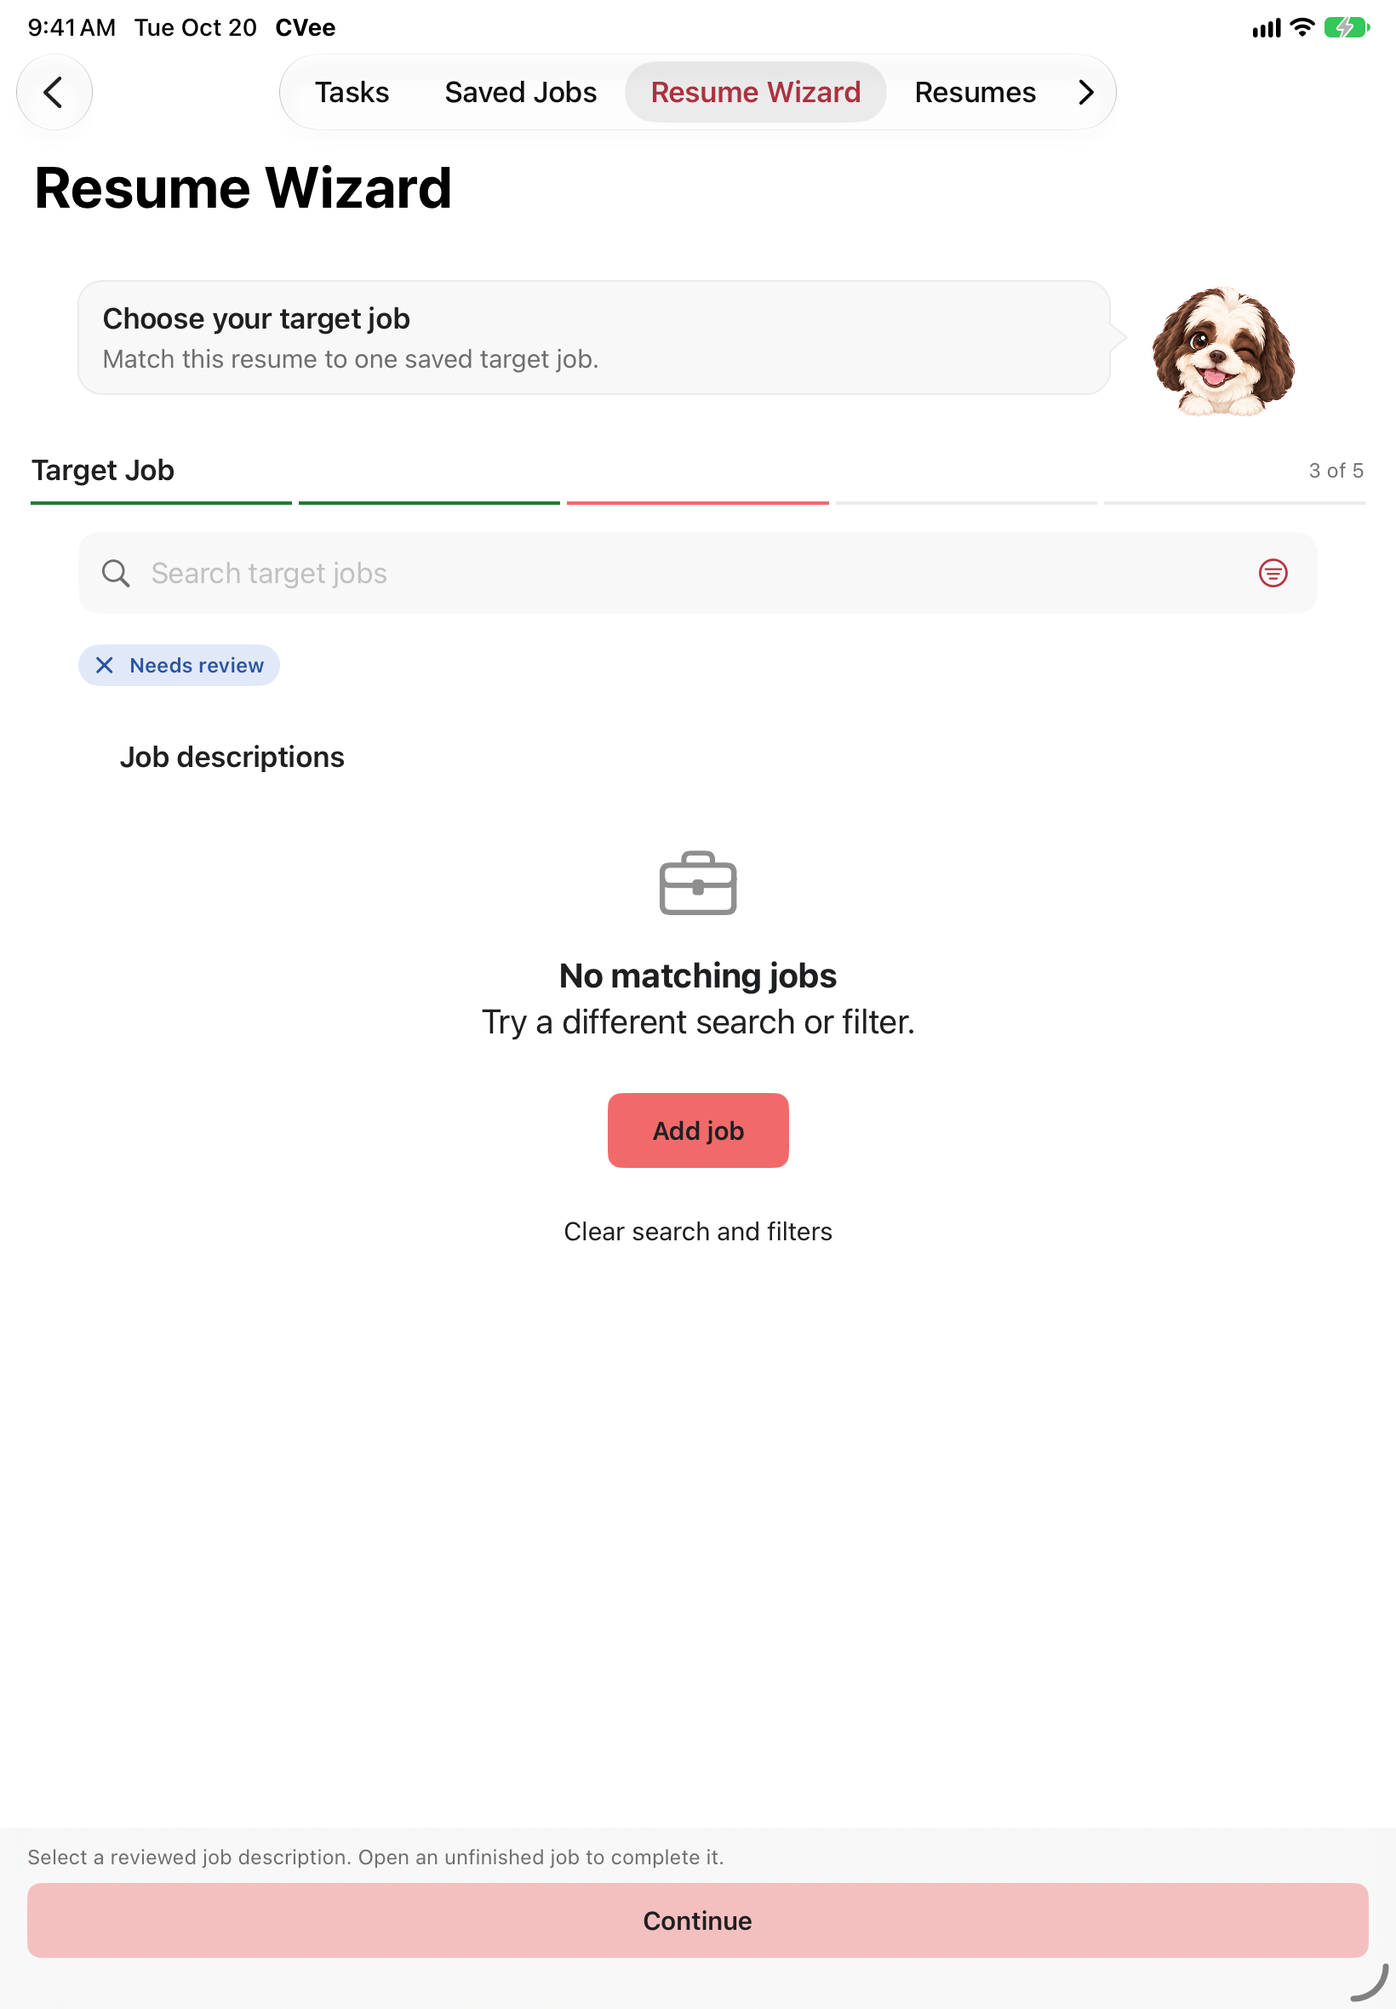
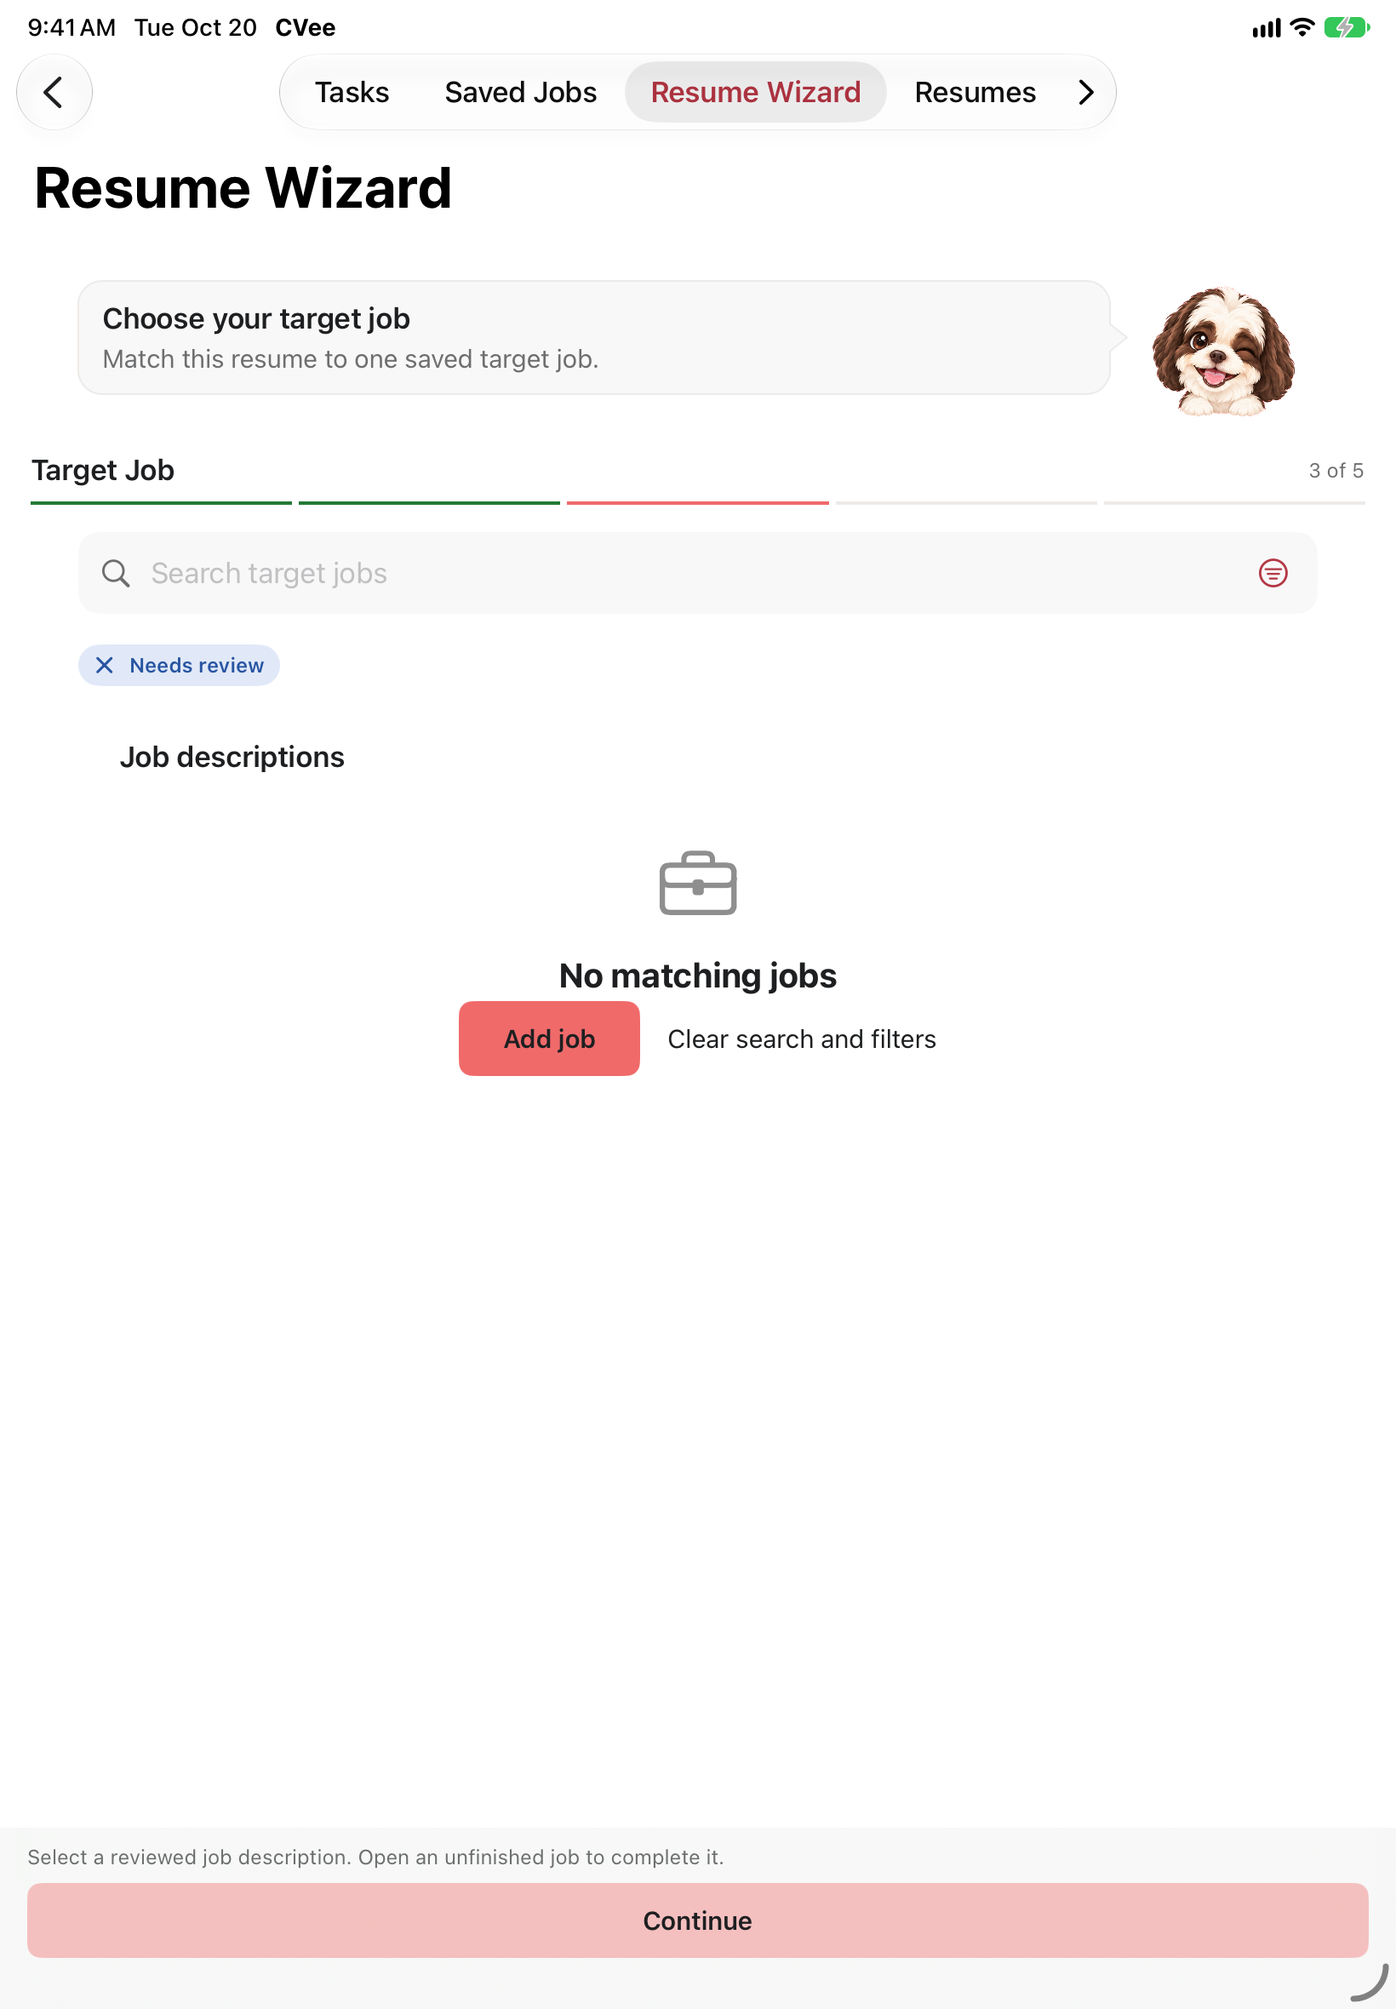
Keep Clear search and filters above the bottom bar when no job matches
- Lay out the Target Job empty state's Add job and Clear search and filters side by side when they fit (iPad), stacked otherwise, from one @ViewBuilder helper.
- Drop "Try a different search or filter." from the no-match state, so on iPhone 17 the stacked buttons stay above the bottom bar; the no-jobs state keeps its description only while the mascot is hidden.
- testWizardNoMatchingJobsOffersAddJob checks both buttons sit above the bottom bar without scrolling and that Add job comes first.
- Comment the popup backdrop's intentionally empty tap closure (SonarCloud S1186).
- Reword README, DESIGN and CHANGELOG; recapture iphone-05 and ipad-05.

Changed region(s): [[0.311, 0.4949, 0.653, 0.6186], [0.4043, 0.5877, 0.4354, 0.6186]]

diff --git a/CVee-resumebuilder/ContentView.swift b/CVee-resumebuilder/ContentView.swift
@@ -2853,20 +2853,16 @@ struct NewResumeView: View {
                     ContentUnavailableView {
                         Label(jobs.isEmpty ? "No saved jobs" : "No matching jobs", systemImage: "briefcase")
                     } description: {
-                        // With no saved jobs the bubble above already says what to do.
-                        if !(jobs.isEmpty && showsMascot) {
-                            Text(jobs.isEmpty ? "Add a job description to continue." : "Try a different search or filter.")
-                        }
+                        // With no saved jobs the bubble above already says what to do, and with no matches
+                        // Clear search and filters does; leaving the line out keeps that button above the
+                        // bottom bar on iPhone.
+                        if jobs.isEmpty && !showsMascot { Text("Add a job description to continue.") }
                     }
                     actions: {
-                        // Styled buttons take only their own taps inside the form row. Add job is coral, as on Saved Jobs.
-                        Button("Add job") { jobCountBeforeAdd = jobs.count; showingAddJob = true }
-                            .buttonStyle(CoralButtonStyle())
-                            .accessibilityIdentifier("wizard.jobs.empty-add-job")
-                        if !jobs.isEmpty {
-                            Button("Clear search and filters") { jobSearch = ""; jobCompany = "All companies"; jobStatus = "All statuses" }
-                                .buttonStyle(.borderless)
-                                .accessibilityIdentifier("wizard.jobs.clear-filters")
+                        // Side by side when they fit, so the way out of a search stays above the bottom bar.
+                        ViewThatFits(in: .horizontal) {
+                            HStack(spacing: 16) { jobEmptyActions }
+                            VStack(spacing: 12) { jobEmptyActions }
                         }
                     }
                 }
@@ -2896,6 +2892,20 @@ struct NewResumeView: View {
                 }
             }
         }.formStyle(.grouped).modifier(WorkspaceSurface())
+    }
+
+    /// Add job, then Clear search and filters while a search or filter hides every job. Styled buttons
+    /// take only their own taps inside the form row; Add job is coral, as on Saved Jobs.
+    @ViewBuilder
+    private var jobEmptyActions: some View {
+        Button("Add job") { jobCountBeforeAdd = jobs.count; showingAddJob = true }
+            .buttonStyle(CoralButtonStyle())
+            .accessibilityIdentifier("wizard.jobs.empty-add-job")
+        if !jobs.isEmpty {
+            Button("Clear search and filters") { jobSearch = ""; jobCompany = "All companies"; jobStatus = "All statuses" }
+                .buttonStyle(.borderless)
+                .accessibilityIdentifier("wizard.jobs.clear-filters")
+        }
     }
 
     private var summaryPage: some View {

diff --git a/CVee-resumebuilderUITests/ResumeWizardUITests.swift b/CVee-resumebuilderUITests/ResumeWizardUITests.swift
@@ -1110,7 +1110,11 @@ final class ResumeWizardUITests: XCTestCase {
         let clear = app.buttons["wizard.jobs.clear-filters"]
         XCTAssertTrue(addJob.exists)
         XCTAssertTrue(clear.exists)
-        XCTAssertLessThan(addJob.frame.midY, clear.frame.midY, "Add job sits above Clear search and filters")
+        // Both sit fully above the bottom bar without scrolling, Add job first.
+        let bar = app.descendants(matching: .any)["wizard.bottom-bar"]
+        XCTAssertLessThanOrEqual(addJob.frame.maxY, bar.frame.minY)
+        XCTAssertLessThanOrEqual(clear.frame.maxY, bar.frame.minY, "Clear search and filters stays above the bottom bar")
+        XCTAssertTrue(addJob.frame.maxX <= clear.frame.minX || addJob.frame.maxY <= clear.frame.minY, "Add job comes first")
         XCTAssertEqual(app.buttons.matching(NSPredicate(format: "label CONTAINS 'Add job'")).count, 1, "The trailing Add job row hides")
         capture(app, "wizard-no-matching-jobs")
         addJob.tap()

diff --git a/CVee-resumebuilder/Mascot.swift b/CVee-resumebuilder/Mascot.swift
@@ -332,7 +332,9 @@ struct MascotErrorPopup: View {
             Color.black.opacity(0.35)
                 .ignoresSafeArea()
                 .contentShape(Rectangle())
-                .onTapGesture { }
+                .onTapGesture {
+                    // Swallows taps, so the backdrop never dismisses the popup; only OK does.
+                }
                 .accessibilityHidden(true)
             VStack(spacing: 12) {
                 MascotView(mood: .curious, size: MascotMetrics.prominentSize)

diff --git a/README.md b/README.md
@@ -8,7 +8,7 @@ The five tabs are:
 
 - Tasks — add, edit, delete, search, and filter work experiences by company. Quick capture starts as a coral "What is your task today" card; tapping it opens a field for the task, and "Record task" then opens a sheet to confirm the task details, role, and company before saving. Recording folds the card again. Unfinished capture text is kept as a draft across launches, and a restored draft opens the card. The dog mascot leans on the card with a speech bubble beside it (at accessibility text sizes both sit above the card): it greets you with first-use guidance while the library is empty, cheers for six seconds after a task is recorded with quick capture, and otherwise shows how many tasks are ready to reuse. Editable progress widgets sit below quick capture: Tasks by company (a donut chart of the top four companies plus Other) and Used in resumes (the share of tasks linked to a saved resume) are shown by default, and Resumes saved, Jobs ready, and Last 30 days can be added; Edit adds, removes, and reorders them. The task list is grouped by company under a "Search tasks" field that matches role, company, and task text. A filter menu in the field limits the list to one company; the active filter shows as a chip below the field, and tapping the chip removes it. Tasks can also be added manually or imported from a document. Each entry stores a role, company, dates, and task/achievement lines; an existing task's dates cannot be changed. "Improve with AI" (while recording) and "Enhance with AI" (when adding manually or editing) rewrite a task into at most two concise sentences with the selected AI provider, and the suggestion is reviewed before it replaces the original.
 - Saved Jobs — save target jobs by pasting text or a link, importing one document (PDF, DOCX, or TXT) or up to 10 screenshots, or sharing from another app through the "Save to CVee" share extension. Document and screenshot text is extracted on the device (PDF, DOCX, and TXT text, with Vision OCR for screenshots and PDF pages without a text layer); no AI provider is involved. Title, company, and source URL are optional, but a job needs a description, a valid http(s) source URL, or an attachment. Each job row shows its title, company, status (Needs description, Needs review, or Ready for resume), and the date it was saved, and ends in a chevron; tapping a row opens job detail. A resume can use only a job that is Ready for resume. Imported and shared jobs are listed under Captured jobs. Above the list, the dog mascot and a speech bubble suggest saving a first job, then say how many saved jobs are ready for a resume; they are hidden while searching. A document or screenshot import is saved as needing review unless "Mark description reviewed" is tapped in the Add job sheet first, and a shared job always arrives needing review; "Mark reviewed" in job detail, or saving an edit, clears that once the job has a description. In job detail, "Fetch description" loads a proposed description from the job's source URL, which is stored only after Save changes, and "Extract description locally" reads attached files. Jobs can be searched, edited, and deleted with confirmation; job detail lists linked saved resumes, and "View tasks" opens the Tasks tab. The Add job sheet keeps an unfinished draft and warns about a possible duplicate (same normalized source URL or description).
-- Resume Wizard — five steps: Profile, Experience, Target Job, Review, and Resume. Start fresh with profile information (prefilled from Profile and saved back to it) or use an uploaded text-based PDF or a saved resume as a baseline; select work entries with the checkboxes on the left of each row, or all shown entries with the Work Library header's checkbox (search and a company filter sit below the step header), adding or importing tasks if needed; choose a saved job that is Ready for resume (search plus Company and Status filters) (tapping a job that is not ready opens its detail sheet to fix it); review the inputs and where the AI processing happens; generate; then preview the PDF, edit the text in Formatted or LaTeX mode, check the job match, and save. Replacing an unsaved draft and "Discard draft" (on the Resume step only) ask for confirmation. Back is the chevron at the top left from step 2 on, with the "Resume Wizard" title beside it in the navigation bar on iPhone (at the leading edge on Profile; iPad keeps the large title). Above the progress bar, the dog mascot and a speech bubble carry each step's guidance, in portrait at standard text sizes and not while typing; with an empty work library the bubble says "No tasks added yet", and with no saved jobs "No jobs saved yet", and the empty state below keeps only its title and button. When a job search or filter matches nothing, Target Job offers "Add job" above "Clear search and filters". A failed baseline upload, generation, or save shows as a popup with the dog, a title, the message, and OK; the draft is kept. The draft survives Back and tab navigation but not an app relaunch.
+- Resume Wizard — five steps: Profile, Experience, Target Job, Review, and Resume. Start fresh with profile information (prefilled from Profile and saved back to it) or use an uploaded text-based PDF or a saved resume as a baseline; select work entries with the checkboxes on the left of each row, or all shown entries with the Work Library header's checkbox (search and a company filter sit below the step header), adding or importing tasks if needed; choose a saved job that is Ready for resume (search plus Company and Status filters) (tapping a job that is not ready opens its detail sheet to fix it); review the inputs and where the AI processing happens; generate; then preview the PDF, edit the text in Formatted or LaTeX mode, check the job match, and save. Replacing an unsaved draft and "Discard draft" (on the Resume step only) ask for confirmation. Back is the chevron at the top left from step 2 on, with the "Resume Wizard" title beside it in the navigation bar on iPhone (at the leading edge on Profile; iPad keeps the large title). Above the progress bar, the dog mascot and a speech bubble carry each step's guidance, in portrait at standard text sizes and not while typing; with an empty work library the bubble says "No tasks added yet", and with no saved jobs "No jobs saved yet", and the empty state below keeps only its title and button. When a job search or filter matches nothing, Target Job offers "Add job" beside "Clear search and filters" (stacked when they don't fit). A failed baseline upload, generation, or save shows as a popup with the dog, a title, the message, and OK; the draft is kept. The draft survives Back and tab navigation but not an app relaunch.
 - Resumes — browse saved resumes (most recently updated first), open, preview, delete with confirmation, and export PDF or RTF through the share sheet. Saved resumes open in a structured section editor with Content and Preview modes: sections can be added (Summary, Experience, Projects, Skills, Education, Certifications, Custom), hidden, reordered, or deleted; the contact header cannot be hidden or deleted; there is a one- or two-page target, undo and redo, and autosave. "Import LaTeX text" turns pasted LaTeX into a new resume. Resumes saved only as RTF open as "Legacy resume" with "Create editable copy", and a resume whose structured data cannot be read shows a read-only preview. "Check job match" opens the resume report. An empty Resumes list offers "Create resume", which opens the wizard.
 - Profile — edit name, email, phone, location, LinkedIn and GitHub links, education, skills, and certifications; choose the AI provider, model, and API keys under Advanced settings → AI Provider; read terms; contact support; see the app version; and permanently clear local data after typing `CLEAR`. Clear all data deletes tasks, jobs, resumes, profile fields, job captures and attachments, the job and task capture drafts, the last-used task company, and the AI provider choice, model choices, and API keys. It does not reset the progress-widget layout.
 

diff --git a/CHANGELOG.md b/CHANGELOG.md
@@ -10,7 +10,7 @@ Captures: [design-audit/2026-10-19-wizard-round-three/](design-audit/2026-10-19-
 
 - On iPhone the "Resume Wizard" title moves from its own large-title row into the navigation bar beside the Back chevron (at the leading edge on Profile). iPad keeps the large title, because its bar shares a row with the tab bar.
 - With an empty work library the mascot's bubble says "No tasks added yet", and with no saved jobs "No jobs saved yet"; the empty state below keeps only its title and a coral Add experience or Add job.
-- When a job search or filter matches nothing, Target Job offers a coral Add job above "Clear search and filters", and the trailing Add job row hides while an empty state shows.
+- When a job search or filter matches nothing, Target Job offers a coral Add job beside "Clear search and filters" (above it when they don't fit side by side), with no description line so both stay above the bottom bar, and the trailing Add job row hides while an empty state shows.
 - Wizard errors (a baseline that can't be used, generation, and saving) show in a popup with the mascot, a title for the step, the message, and OK, instead of inline red text. The save failure now reads "Your draft is kept." followed by the error.
 - The resume report opens with the mascot and a bubble for its state, and shows the resume match: the share of confirmed job phrases found in the resume, as a "Resume match" row in the top card and a percentage with a progress bar above the coverage summary. It is not an ATS score.
 - When Apple Intelligence is unavailable, the report's "Suggest" and "Find related evidence" buttons use the remote provider selected in Profile (OpenAI, Gemini, or Claude with a saved key) and name it, with a caption saying what is sent; with no usable provider they offer "Choose an AI provider". Responses wrapped in code fences or text now parse.

diff --git a/DESIGN.md b/DESIGN.md
@@ -184,7 +184,7 @@ Saved Jobs rows show the title, a company capsule, a status (green when ready fo
 
 ### Empty States, Confirmation, and Failures
 - Empty libraries offer their next action: Saved Jobs offers Add job, Resumes offers Create resume (which opens the wizard), and the wizard's experience and job steps offer Add experience and Add job. The Tasks empty state has no button; quick capture sits above it.
-- Searches with no results offer a way back: Clear search, or Clear search and filters on Tasks and Saved Jobs. The wizard's Target Job step offers a coral Add job above Clear search and filters (its empty Experience and Target Job steps use the same coral Add experience and Add job as Saved Jobs); while either job empty state shows, the trailing Add job row hides, so only one Add job is on screen.
+- Searches with no results offer a way back: Clear search, or Clear search and filters on Tasks and Saved Jobs. The wizard's Target Job step offers a coral Add job and then Clear search and filters, side by side when they fit and stacked otherwise, with no description line so both stay above the bottom bar (its empty Experience and Target Job steps use the same coral Add experience and Add job as Saved Jobs); while either job empty state shows, the trailing Add job row hides, so only one Add job is on screen.
 - Deleting a task, job, resume, resume section, or API key, and discarding an unfinished capture draft, require confirmation. Clear all data requires typing CLEAR.
 - Failed saves and deletions are reported in an alert or inline message, and the current content is kept. The Resume Wizard's failures (a baseline that can't be used, generation, and saving) show in the mascot error popup instead, titled for the step; the wizard's Back and Hide keyboard buttons hide while it shows.
 
